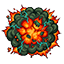
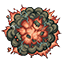
feat: add fading explosion effect on alien death

diff --git a/entities/explosion.py b/entities/explosion.py
@@ -1,0 +1,24 @@
+import pygame
+from settings import *
+
+class Explosion(pygame.sprite.Sprite):
+    def __init__(self, x, y):
+        super().__init__()
+
+        raw = pygame.image.load(EXPLOSION_SPRITE).convert_alpha()
+        self.image = pygame.transform.scale(raw, (50, 50))
+
+        self.rect = self.image.get_rect()
+        self.rect.center = (x, y)
+
+        self.lifetime = 10      # visible for 20 frames
+        self.timer = 0
+
+
+    def update(self):
+        self.timer += 1
+        # Fade out by reducing alpha overtime - not suddenly
+        alpha = max(0, 255 - (255 * self.timer // self.lifetime))
+        self.image.set_alpha(alpha)
+        if self.timer >= self.lifetime:
+            self.kill()

diff --git a/game.py b/game.py
@@ -5,6 +5,7 @@ from entities.player import Player
 from entities.bullet import Bullet
 from entities.shield import create_shield
 from entities.starfield import Starfield
+from entities.explosion import Explosion
 
 from managers.wave_manager import WaveManager
 
@@ -91,6 +92,8 @@ class Game:
         )
         for alien in hits:
             self.score += alien.points
+            explosion = Explosion(alien.rect.centerx, alien.rect.centery)
+            self.all_sprites.add(explosion)
 
         # Alien bullets hit player
         if pygame.sprite.spritecollide(self.player, self.alien_bullets, True):